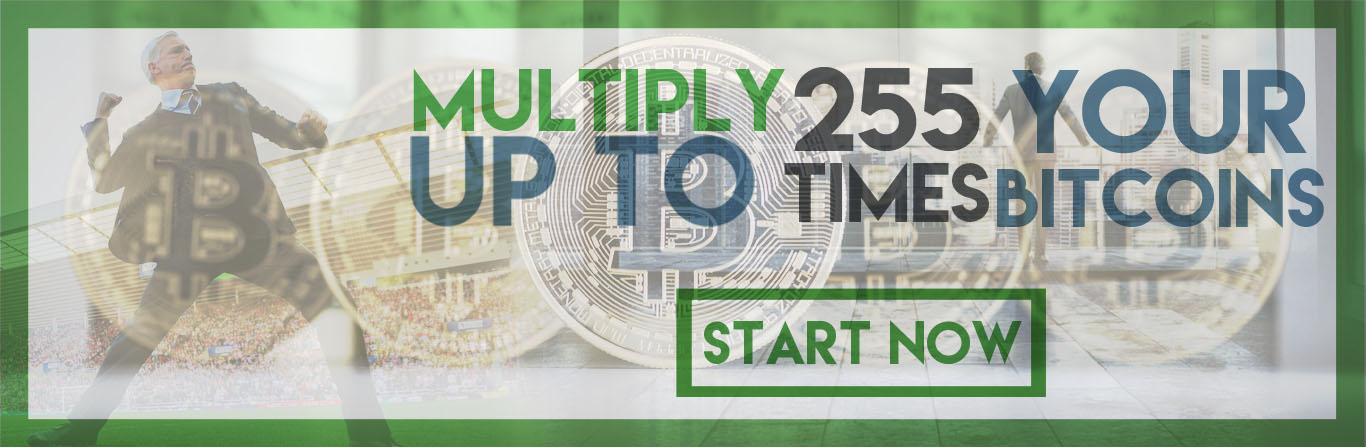
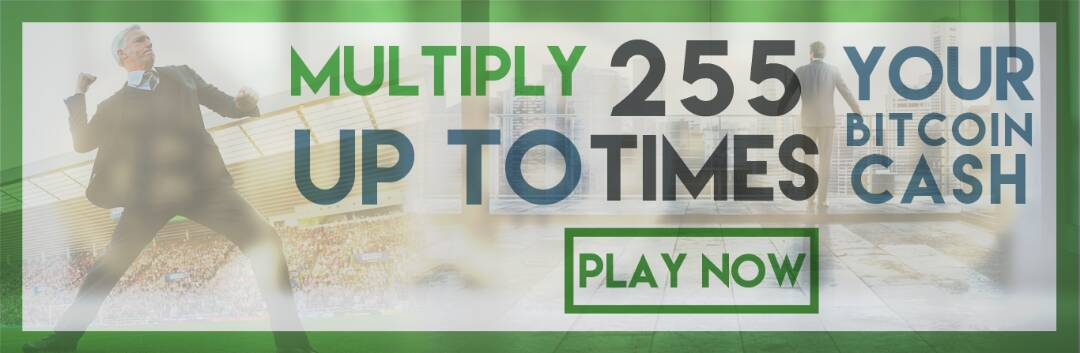
nuevas imagenes carrusel

diff --git a/betcnow/templates/betcnow/home.html b/betcnow/templates/betcnow/home.html
@@ -20,17 +20,17 @@
   <div id="myCarousel" class="carousel slide article-slide" data-ride="carousel" data-interval="false">
     <!-- Carousel indicators -->
     <ol class="carousel-indicators">
-      <li data-target="#myCarousel" data-slide-to="0" class="active"><img src="{% static 'betcnow/img/demo.png' %}"></li>
+      <li data-target="#myCarousel" data-slide-to="0" class="active"><img src="{% static 'betcnow/img/1.jpg' %}"></li>
 	  <li data-target="#myCarousel" data-slide-to="1"><img src="{% static 'betcnow/img/we_dont_acumulate.png' %}"></li>
       <!--li data-target="#myCarousel" data-slide-to="1"><img src="{% static 'betcnow/img/results.png' %}"></li-->
 	  <li data-target="#myCarousel" data-slide-to="2"><img src="{% static 'betcnow/img/win.jpg' %}"></li>
-      <li data-target="#myCarousel" data-slide-to="3"><img src="{% static 'betcnow/img/member.png' %}"></li>		
+      <li data-target="#myCarousel" data-slide-to="3"><img src="{% static 'betcnow/img/become_member.jpg' %}"></li>		
     </ol>   
     <!-- Wrapper for carousel items -->
     <div class="carousel-inner">
 
         <div class="item active">
-            <a href="{% url 'demo' %}"><img class="img-corousel" src="{% static 'betcnow/img/demo.png' %}" alt="First Slide"></a>
+            <a href="{% url 'demo' %}"><img class="img-corousel" src="{% static 'betcnow/img/1.jpg' %}" alt="First Slide"></a>
         </div>
 		<div class="item">
             <a href="{% url 'demo' %}"><img class="img-corousel" src="{% static 'betcnow/img/we_dont_acumulate.png' %}" alt="First Slide"></a>
@@ -40,10 +40,10 @@
 			<a href="{% url 'results' %}"><img class="img-corousel" src="{% static 'betcnow/img/results.png' %}" alt="Second Slide"></a>
         </div-->
 		<div class="item">
-			<a href="{% url 'play' %}"><img class="img-responsive" src="{% static 'betcnow/img/win.jpg' %}" alt="demo" ></a>
+			<a href="{% url 'play' %}"><img class="img-corousel" src="{% static 'betcnow/img/win.jpg' %}" alt="demo" ></a>
 		</div>
         <div class="item">
-			<a href="{% url 'membership' %}"><img class="img-corousel" src="{% static 'betcnow/img/member.png' %}" alt="Third Slide"></a>
+			<a href="{% url 'membership' %}"><img class="img-corousel" src="{% static 'betcnow/img/become_member.jpg' %}" alt="Third Slide"></a>
         </div>		
     </div>
     <!-- Carousel controls -->
@@ -106,7 +106,7 @@
 		<div class="row">
 			<div class="col-xs-12 col-md-8 col-md-offset-2">
 				<div class="embed-responsive embed-responsive-16by9">
-					<iframe class="embed-responsive-item" src="https://www.youtube.com/embed/Um63OQz3bjo" allowfullscreen="allowfullscreen">
+					<iframe class="embed-responsive-item" src="https://www.youtube.com/embed/D2bl_otQPK4" allowfullscreen="allowfullscreen">
 					</iframe>		
 				</div>				
 			</div>

diff --git a/betc/urls.py b/betc/urls.py
@@ -27,7 +27,7 @@ from django.contrib.sitemaps.views import sitemap
 from betcnow.sitemaps import ViewSitemap
 
 sitemaps = {'views': ViewSitemap}
-"""
+
 urlpatterns = [
     url(r'', include('betcnow.urls')),
     url(r'^robots.txt/$', TemplateView.as_view(template_name='robots.txt', content_type='text/plain'), name="robots"),
@@ -62,7 +62,7 @@ urlpatterns = [
         name='home'),
     url(r'^admin/', admin.site.urls),
 ]
-
+"""
 if settings.DEBUG:
     import debug_toolbar
 

diff --git a/betc/settings.py b/betc/settings.py
@@ -23,8 +23,8 @@ BASE_DIR = os.path.dirname(os.path.dirname(os.path.abspath(__file__)))
 SECRET_KEY = 'a_9*^5bi&2gc#u6g+gt)3z7j()q41r6qr7o*3ez!g#17*xt!s$'
 
 # SECURITY WARNING: don't run with debug turned on in production!
-DEBUG = False
-SECURE_SSL_REDIRECT = True
+DEBUG = True
+SECURE_SSL_REDIRECT = False
 
 
 ALLOWED_HOSTS = ['.pythonanywhere.com', '127.0.0.1', '.betcnow.com']
